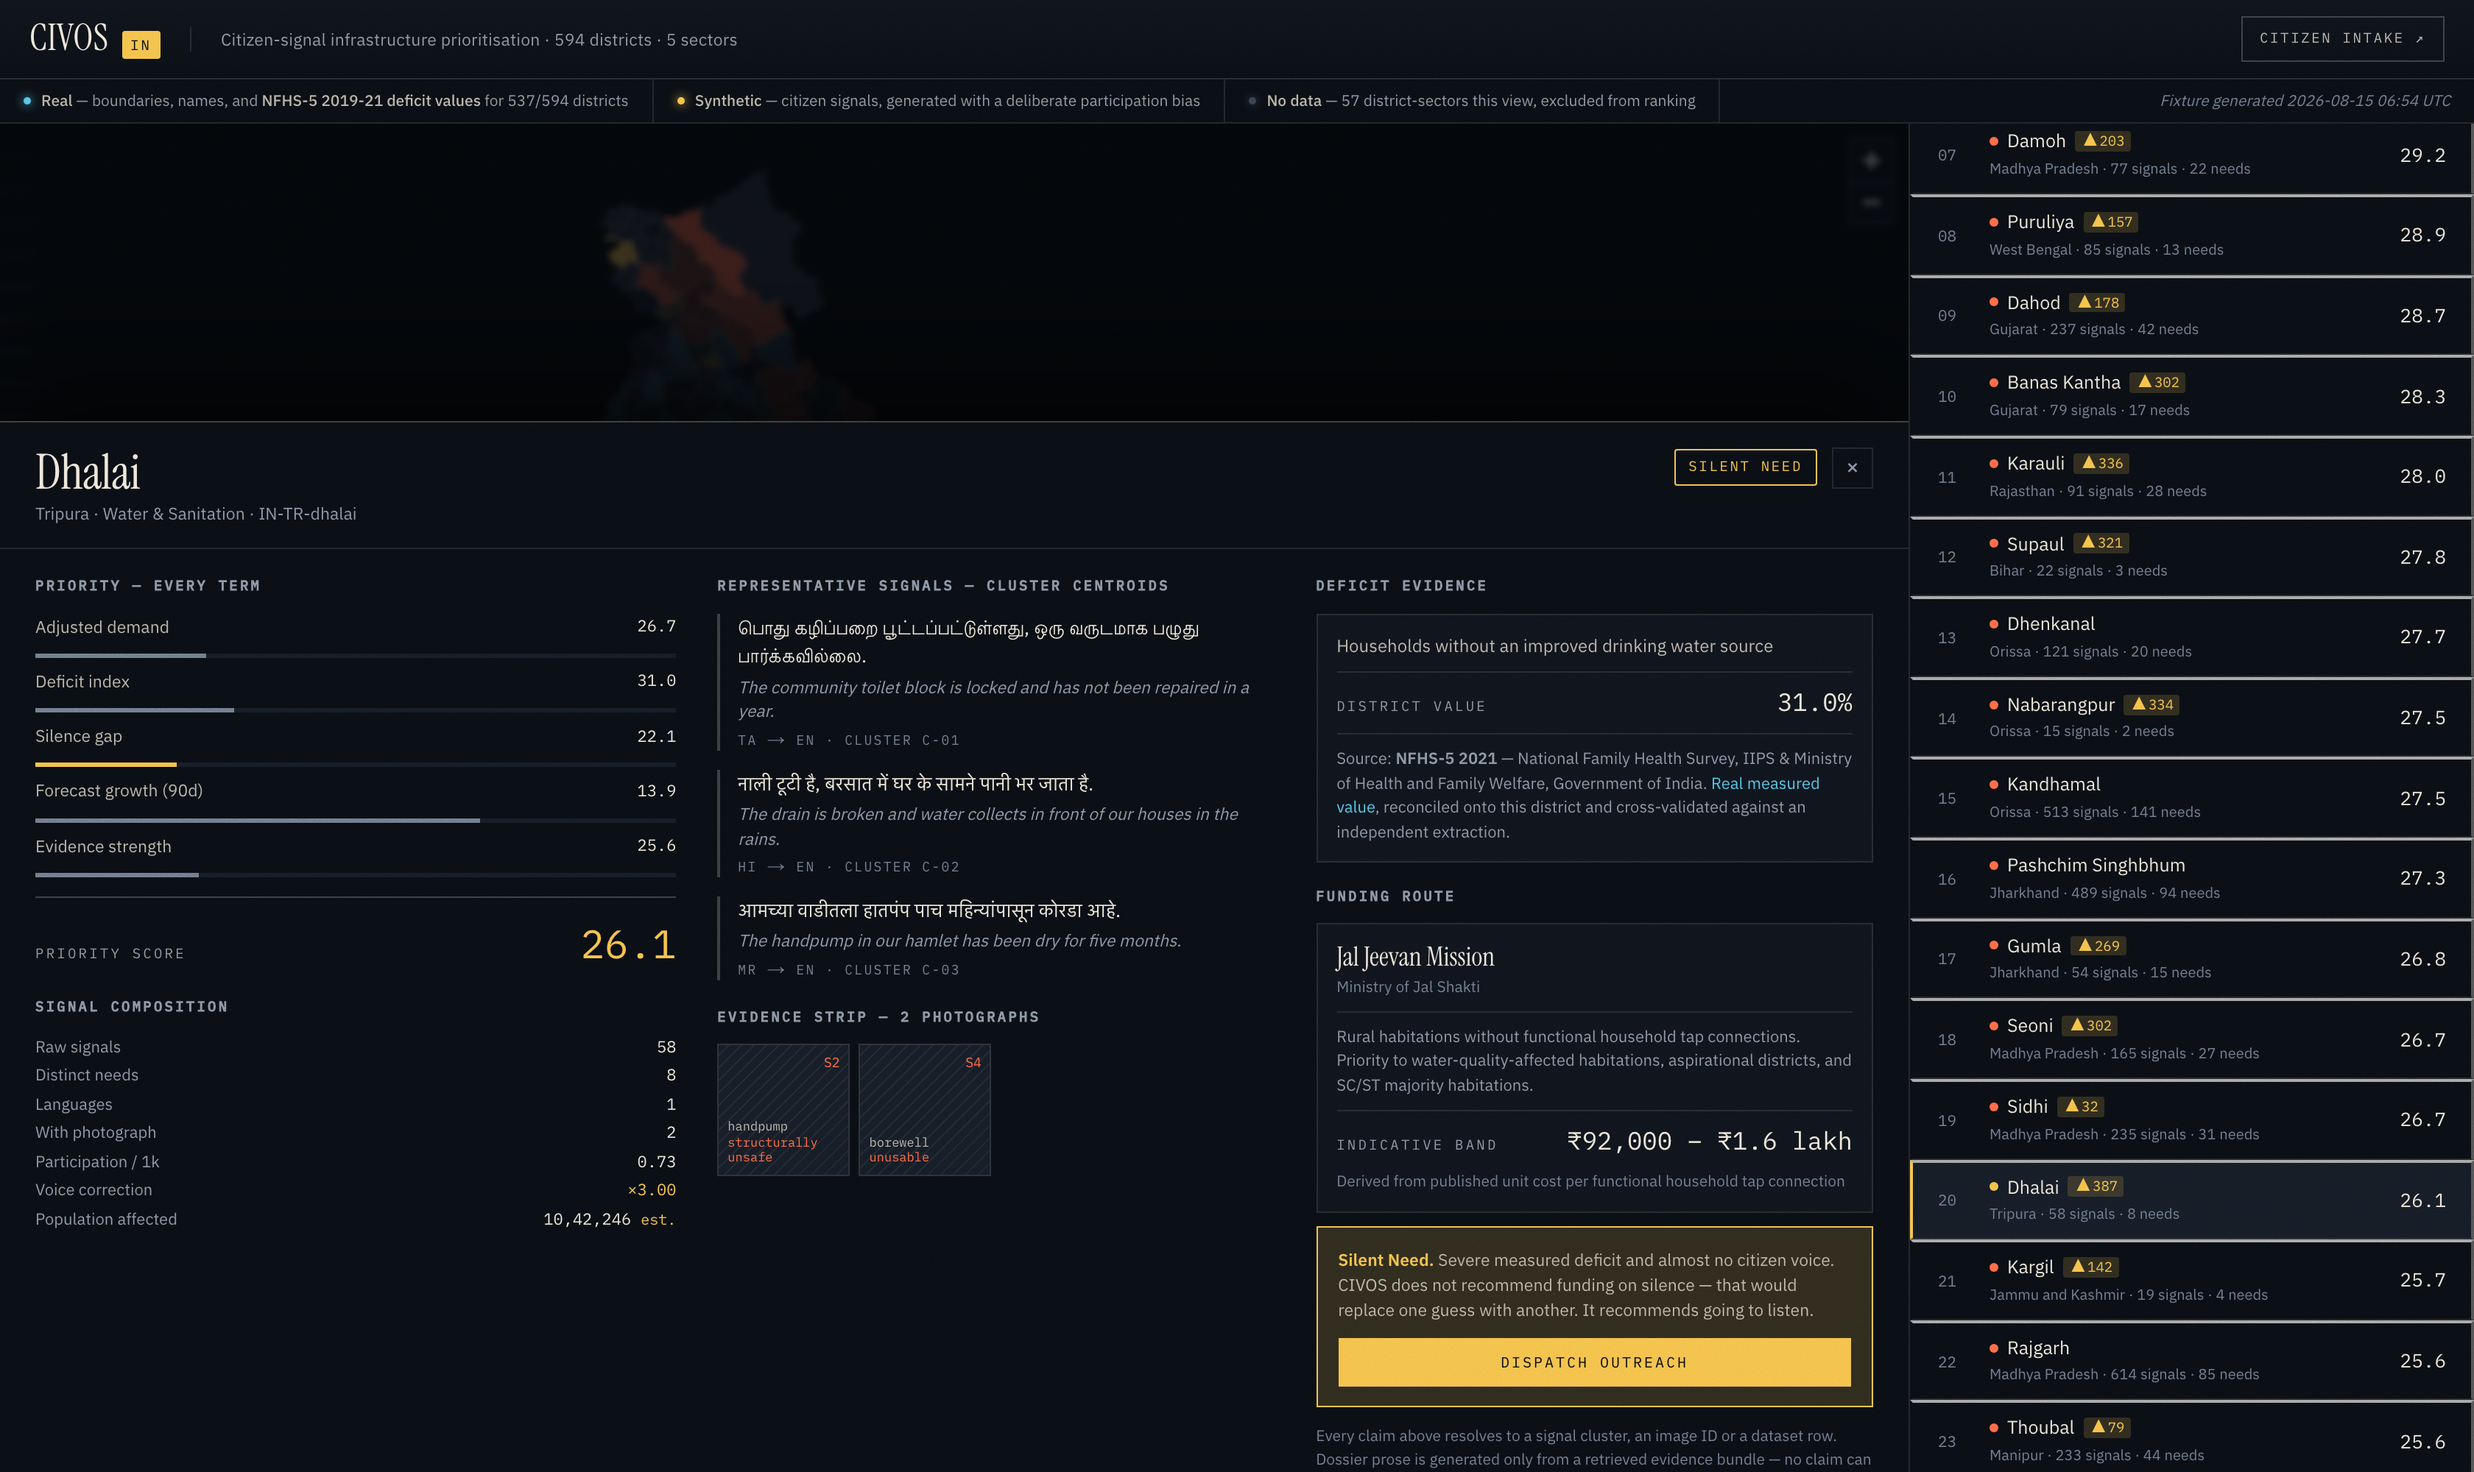
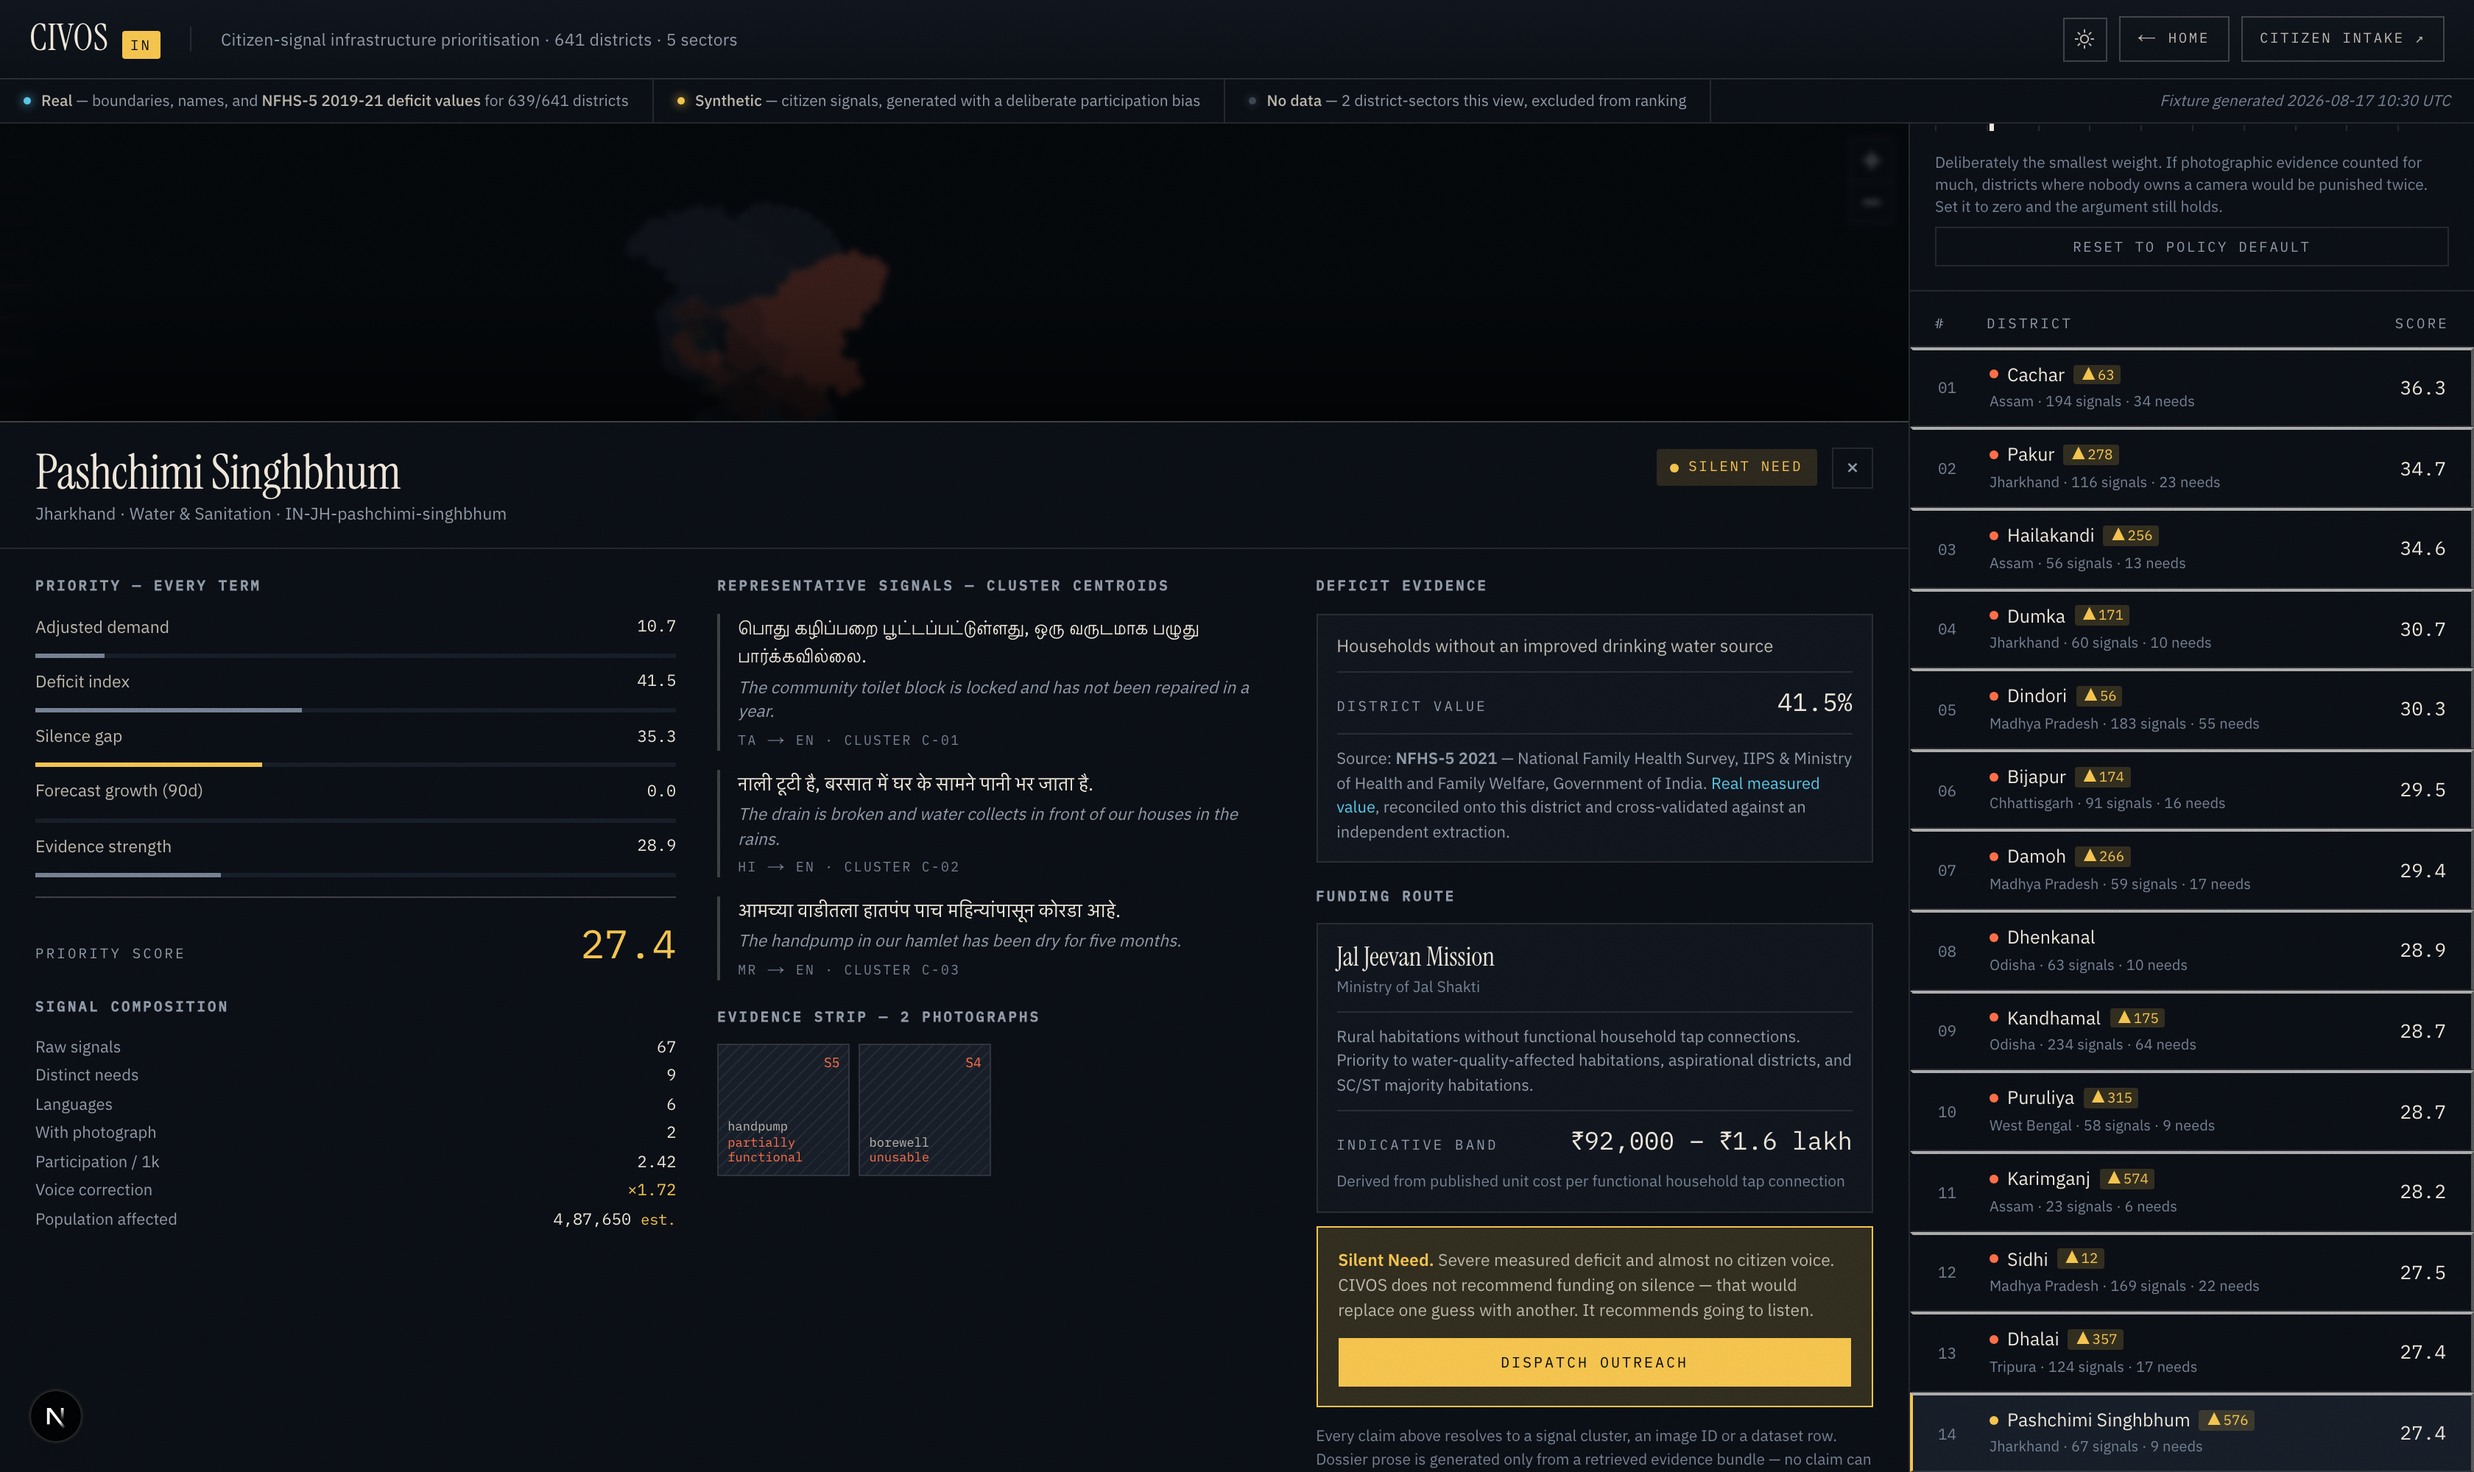
Re-shoot screenshots against the new boundary set, and fix the shoot script's routes
The screenshots in docs/screenshots/ were from 15 Aug and showed the old
594-district GADM map with the pre-R1 hashed Silent Need set. Everything in
them was stale: district count, quadrant counts, the ranking, and the map's
actual shape.

scripts/shoot_console.py was also broken and would have silently produced
wrong images rather than failing: it shot "/" for all three console frames,
but "/" became the LANDING page when the console moved to /console. It would
have written a screenshot of the landing page to console-raw.png, and its
map-canvas assertion would have fired on a page that has no map.

Routes corrected, and a "landing" frame added — a submission deck with no shot
of the first page an evaluator sees is missing its own front door.

Re-shot all six frames with zero smoke-test failures. The console frames now
show 641 districts, 639/641 real deficit values, "no official data" down to 2
from 57, and Pakur moving ▲278 places when the equity correction is applied.

console-roads-nodata.png is intentionally left at its 15 Aug version — it
documents the Roads & Transport gap, which R6 has not yet closed, so the
frame is still accurate.

diff --git a/scripts/shoot_console.py b/scripts/shoot_console.py
@@ -60,7 +60,7 @@ def main(
             if page.locator(".rank-item").count() < 10:
                 failures.append("ranked list did not populate")
 
-        shoot("console-raw", "/", 1680, 1000, check_map)
+        shoot("console-raw", "/console", 1680, 1000, check_map)
 
         # -- console, equity-adjusted (the money shot) ----------------------
         def flip(page):
@@ -69,7 +69,7 @@ def main(
             if page.get_attribute(".switch", "data-adjusted") != "true":
                 failures.append("equity toggle did not flip")
 
-        shoot("console-adjusted", "/", 1680, 1000, flip)
+        shoot("console-adjusted", "/console", 1680, 1000, flip)
 
         # -- drilldown ------------------------------------------------------
         def drill(page):
@@ -90,7 +90,19 @@ def main(
             if page.locator(".drawer").count() == 0:
                 failures.append("drilldown drawer did not open")
 
-        shoot("console-dossier", "/", 1680, 1000, drill)
+        shoot("console-dossier", "/console", 1680, 1000, drill)
+
+        # -- landing page ---------------------------------------------------
+        # New in the 17 Aug revision: "/" is the landing page and the console
+        # moved to /console. A submission deck that has no shot of the first page
+        # an evaluator lands on is missing its own front door.
+        def landing(page):
+            if page.locator(".lp-h1").count() == 0:
+                failures.append("landing hero absent")
+            if page.locator(".lp-cell.is-silent").count() == 0:
+                failures.append("landing quadrant matrix absent")
+
+        shoot("landing", "/", 1680, 1000, landing)
 
         # -- citizen intake, mobile -----------------------------------------
         def intake(page):
